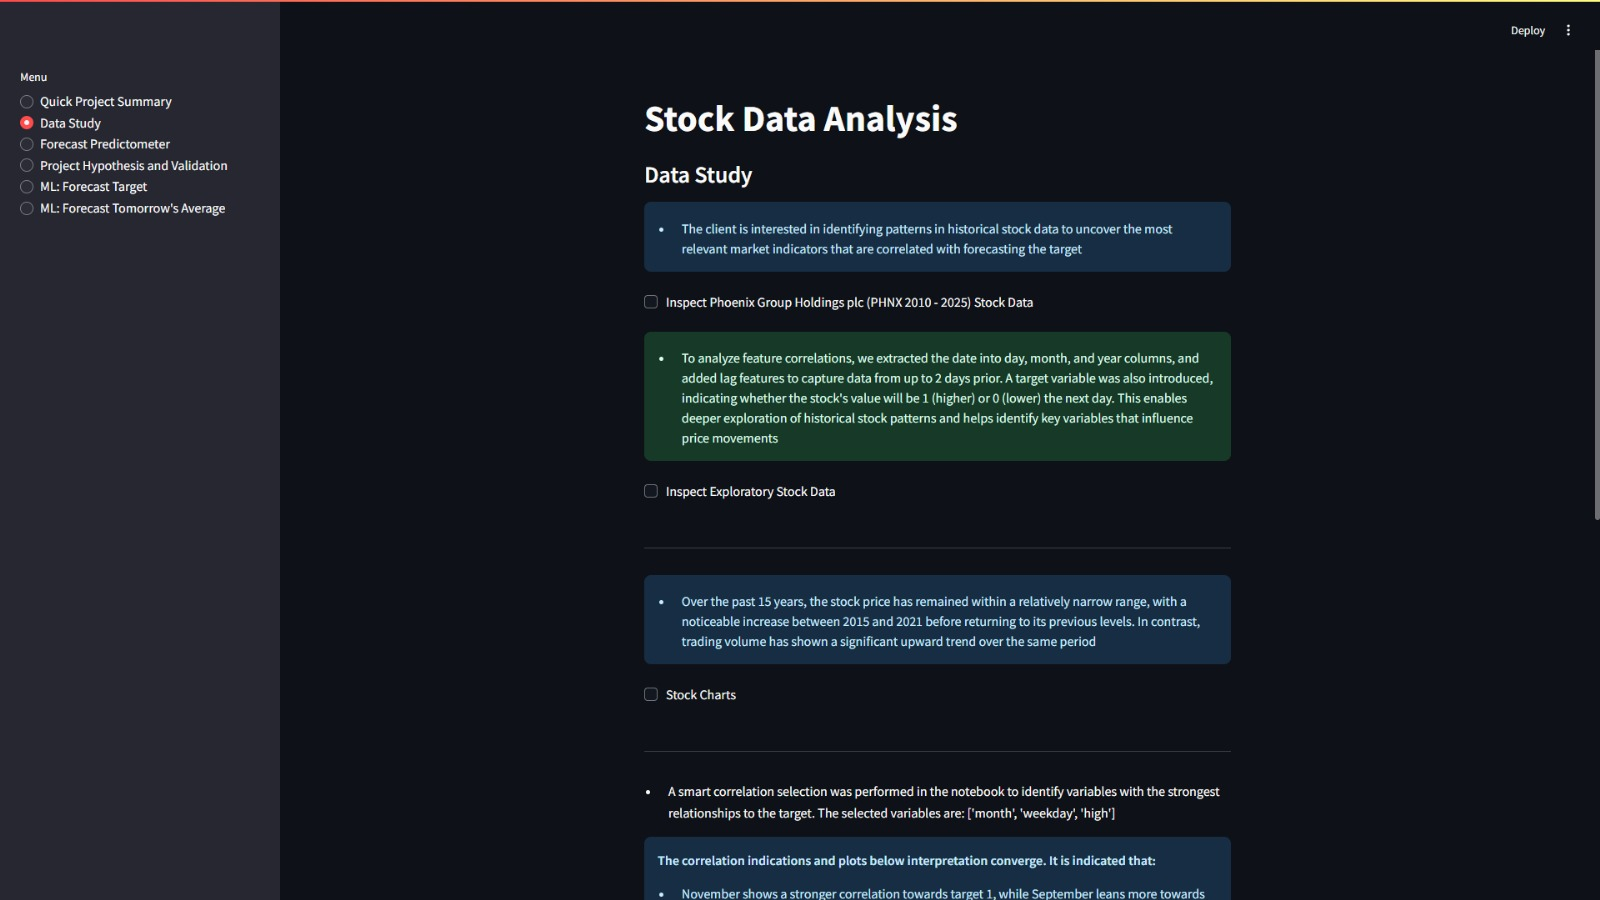
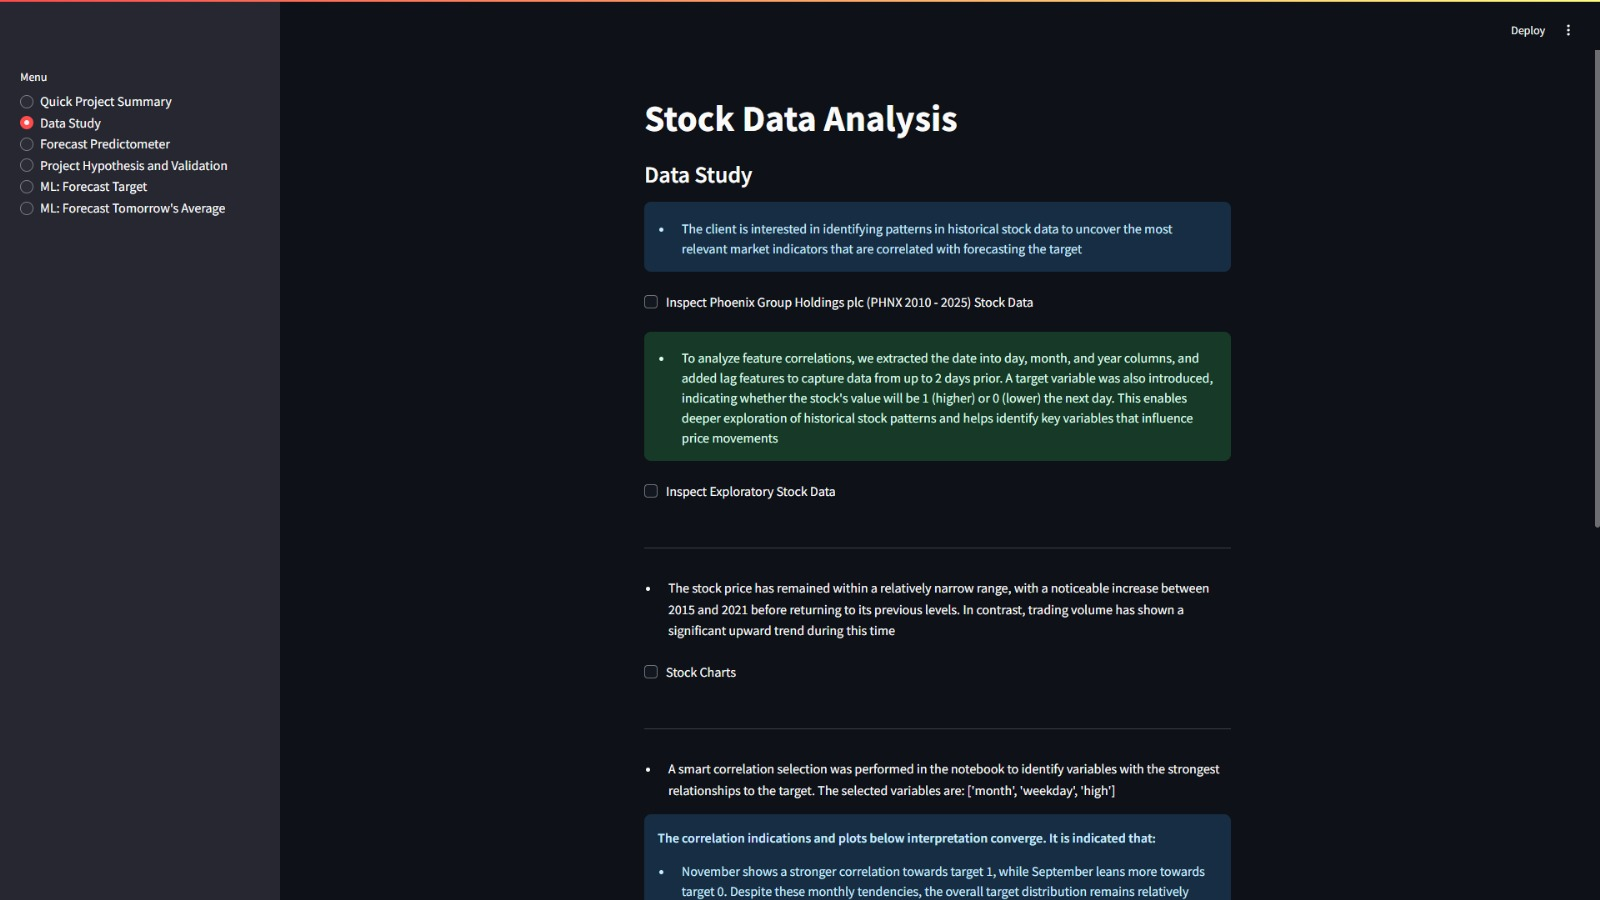
updated dashboard section in the readme and added a disclaimer

Changed region(s): [[0.4062, 0.84, 0.7812, 1.0], [0.375, 0.6222, 0.7812, 0.7778]]

diff --git a/app_pages/page_data_study.py b/app_pages/page_data_study.py
@@ -64,11 +64,11 @@ def page_data_study_body():
     st.write("---")
 
     # inspect charts
-    st.write("* Over the past 15 years, the stock price has remained within "
-             "a relatively narrow range, with a noticeable increase between "
+    st.write("* The stock price has remained within a relatively "
+             "narrow range, with a noticeable increase between "
              "2015 and 2021 before returning to its previous levels. In "
              "contrast, trading volume has shown a significant "
-             "upward trend over the same period")
+             "upward trend during this time")
 
     if st.checkbox("Stock Charts"):
 
@@ -78,9 +78,10 @@ def page_data_study_body():
         st.markdown("### Line Chart")
         st.image("docs/plots/line_plot.png")
 
-        st.info("* The bar graph provides a clear visualization of "
-                "trading volume over the years, highlighting "
-                "significant increases, and long-term growth")
+        st.info("* The bar graph provides a clear visualization of the "
+                "highs and lows in market activity and trading volume "
+                "highlighting significant increases that indicates "
+                "long-term growth")
         st.markdown("### Bar Graph")
         st.image("docs/plots/volume_plot.png")
 

diff --git a/app_pages/page_summary.py b/app_pages/page_summary.py
@@ -56,3 +56,16 @@ def page_summary_body():
                "* The client requires a dashboard that allows them to "
                "visualize key information, monitor daily predictions, and "
                "interact with data to support day-to-day decision-making")
+
+    st.error("### ⚠ Disclaimer\n\n This application is intended for "
+             "informational and educational purposes only. Stock "
+             "markets are inherently volatile, and predictions made "
+             "by this application are not guaranteed. The user assumes "
+             "full responsibility for any investment decisions made "
+             "based on the analysis provided. It is highly recommended "
+             "to perform your own research and consider consulting "
+             "with a financial advisor before making trading decisions\n\n "
+
+             "The developers are not liable for any financial losses "
+             "or damages resulting from the use of this application. "
+             "Always use stop-loss strategies to minimize risk")

diff --git a/app_pages/page_forecast.py b/app_pages/page_forecast.py
@@ -71,8 +71,8 @@ def page_forecast_body():
 
         st.write(df)
 
-    st.write(f"* Fetch the latest 10 days data for Phenix Holdings Limited "
-             f"{ticker} from Yahoo Finance")
+    st.info(f"* Fetch the latest 10 days data for Phenix Holdings Limited "
+            f"{ticker} from Yahoo Finance")
 
     if st.checkbox(f"{ticker} Live Data"):
 
@@ -87,8 +87,8 @@ def page_forecast_body():
             if time_left > timedelta(0):
                 minutes_left = (time_left.seconds // 60) % 60
                 seconds_left = time_left.seconds % 60
-                st.info(f"Data will refresh every hour. "
-                        f"Time To Live remaining: "
+                st.info(f"Data cache is set to 1 hour. "
+                        f"Remaining Time To Live: "
                         f"{minutes_left}m {seconds_left}s")
             else:
                 st.warning("Data is scheduled to refresh soon")

diff --git a/src/data_management.py b/src/data_management.py
@@ -16,7 +16,7 @@ def set_cache_expiration():
     return st.session_state.cache_expiration_time
 
 
-@st.cache_data(ttl=1000)
+@st.cache_data(ttl=1000, show_spinner=False)
 def load_live_stock_data(ticker_symbol):
     """
     - Cache for one day (86400 seconds) so data auto refreshes daily

diff --git a/README.md b/README.md
@@ -4,6 +4,12 @@
 
 This project leverages advanced Machine Learning techniques to analyze and predict stock movements for Phoenix Group Holdings plc. Our goal is to provide accurate, data-driven insights to help investors make informed decisions. By evaluating key market indicators, and historical performance, Predictometer delivers powerful predictions to optimize investment strategies and manage risk effectively
 
+<h2 style="color:crimson; font-weight: bold;">⚠ Disclaimer</h2>
+
+> This application is intended for informational and educational purposes only. Stock markets are inherently volatile, and predictions made by this application are not guaranteed. The user assumes full responsibility for any investment decisions made based on the analysis provided. It is highly recommended to perform your own research and consider consulting with a financial advisor before making trading decisions
+
+> The developers are not liable for any financial losses or damages resulting from the use of this application. Always use stop-loss strategies to minimize risk
+
 ![screenshot of main page at am i responsive](docs/readme_images/responsive.png)
 
 The project is accessible at:
@@ -483,6 +489,13 @@ This page shows a summary of:
 </details>
 
 <details>
+<summary>⚠ Disclaimer</summary>
+This application is intended for informational and educational purposes only. Stock markets are inherently volatile, and predictions made by this application are not guaranteed. The user assumes full responsibility for any investment decisions made based on the analysis provided. It is highly recommended to perform your own research and consider consulting with a financial advisor before making trading decisions
+  
+The developers are not liable for any financial losses or damages resulting from the use of this application. Always use stop-loss strategies to minimize risk
+</details>
+
+<details>
 <summary>Quick Project Summary (Screenshot)</summary>
 <img src="docs/readme_images/page1.jpg">
 </details>
@@ -496,6 +509,8 @@ Business requirements covered:
 This page shows:
 
 #### Data
+
+Raw data is the original data downloaded from yfinance
 
 <details>
 <summary>Raw Data</summary>
@@ -516,6 +531,8 @@ This page shows:
 | 2010-01-15 00:00:00+00:00 | 492.17 | 492.17 | 499.57 | 492.17 | 1862   | 0       | 0           |
 
 </details>
+
+Exploratory data is the data that has been engineered by extracting features such as day, month, and week, and by adding lag features from previous days
 
 <details>
 <summary>Exploratory Data</summary>
@@ -538,6 +555,8 @@ This page shows:
 </details>
 
 #### Stock Charts
+
+The stock charts display the open, close, high, low prices, and trading volume data spanning from 2010 to 2025, providing a comprehensive view of market movements over the years
 
 <details>
 <summary>Line Chart</summary>
@@ -598,7 +617,19 @@ This page consists of the main machine learning pipelines designed to perform st
 
 </details>
 
-It contains four main input widgets for float values: 'close,' 'open,' 'pre_close,' and 'high.' The 'open' and 'close' widgets automatically compute the 'average' value, which then can to run the machine learning forecast
+I have created a checkbox that fetches the most recent data for PHNX.L from the Yahoo Finance API. The data is stored in the cache for 1 hour to save computation, with a countdown timer displaying the remaining cache time. This allows the user to test the model with real-time data efficiently. If there are any issues during data fetching, an error message will be displayed to inform the user
+
+<details>
+<summary>Live Data Success (Screenshot)</summary>
+<img src="docs/readme_images/live_data_success.jpg">
+</details>
+
+<details>
+<summary>Live Data Error (Screenshot)</summary>
+<img src="docs/readme_images/live_data_error.jpg">
+</details>
+
+There are four main input widgets for float values: 'open', 'high', 'close', and 'pre_close'. The 'open' and 'close' widgets automatically compute the 'average' value, which then can to run the machine learning forecast
 
 <details>
 <summary>Forecast Predictometer (Screenshot)</summary>
@@ -789,31 +820,6 @@ Root Mean Squared Error
 
 [↑ Back to Top](#the-predictometer)
 
-## Unfixed Bugs
-
-When running HyperparameterOptimizationSearch() with GridSearchCV for XGBClassifier, a warning appears due to non-finite test scores ([nan])
-
-**Notes:**
-
-- Dataset has been thoroughly tested for missing and infinite values—none found
-
-- All feature data types are numeric (float and int)
-
-- Target classes are well balanced
-
-- All lagged features (previous open, close, high, low, volume, etc.) have been dropped to reduce redundancy, but the issue persists
-
-- Log transformation was applied to features in an attempt to resolve the issue (to reduce skewness, stabilize variance, and handle extreme values), but no improvement was observed
-
-- The root cause of the warning is currently unknown and requires further investigation
-
-<details>
-<summary>Warning Message (Screenshot)</summary>
-<img src="docs/readme_images/warning_msg.jpg">
-</details>
-
-[↑ Back to Top](#the-predictometer)
-
 ## Manual Testing
 
 ### User Story
@@ -874,6 +880,33 @@ These checks help confirm that both models are making logical, data-driven predi
 ### PEP8
 
 All Python project files underwent thorough testing using the CI Python Linter, which is available at [https://pep8ci.herokuapp.com/](https://pep8ci.herokuapp.com/) This tool was utilized to ensure that all code adheres to PEP 8 standards, maintaining consistency, readability, and best practices across the project. The automated linting process helped identify and rectify any formatting issues, ensuring that the codebase meets high-quality standards
+
+### Unfixed Bugs
+
+When running HyperparameterOptimizationSearch() with GridSearchCV for XGBClassifier, a warning appears due to non-finite test scores ([nan])
+
+**Notes:**
+
+- Dataset has been thoroughly tested for missing and infinite values—none found
+
+- All feature data types are numeric (float and int)
+
+- Target classes are well balanced
+
+- All lagged features (previous open, close, high, low, volume, etc.) have been dropped to reduce redundancy, but the issue persists
+
+- Log transformation was applied to features in an attempt to resolve the issue (to reduce skewness, stabilize variance, and handle extreme values), but no improvement was observed
+
+- The root cause of the warning is currently unknown and requires further investigation
+
+<details>
+<summary>Warning Message (Screenshot)</summary>
+<img src="docs/readme_images/warning_msg.jpg">
+</details>
+
+### Fixed Bugs
+
+While running the Hyperparameter Optimization Search and selecting the best parameters, I encountered a minor issue where certain hyperparameters caused the model to favor one class over the other, despite balanced datasets. This behavior was most noticeable when `model__class_weight` was set to `None` and `model__C` was set too low. Similar issues appeared with other tree-based classifiers when hyperparameter values were not properly tuned. I spent time adjusting and understanding these parameters to improve model balance and achieve the best possible outcomes
 
 [↑ Back to Top](#the-predictometer)
 
@@ -980,6 +1013,12 @@ streamlit run app.py
 [↑ Back to Top](#the-predictometer)
 
 ## Technologies
+
+- **Python:** This project was built on Python `3.12.8`
+
+- **Streamlit:** For creating the dashboard, see [https://streamlit.io/](https://streamlit.io/)
+
+- **scikit-learn:** Used for machine learning models, see [https://scikit-learn.org/](https://scikit-learn.org/)
 
 - **Github:** The project's source code is hosted on GitHub at [https://github.com/](https://github.com/)
 
